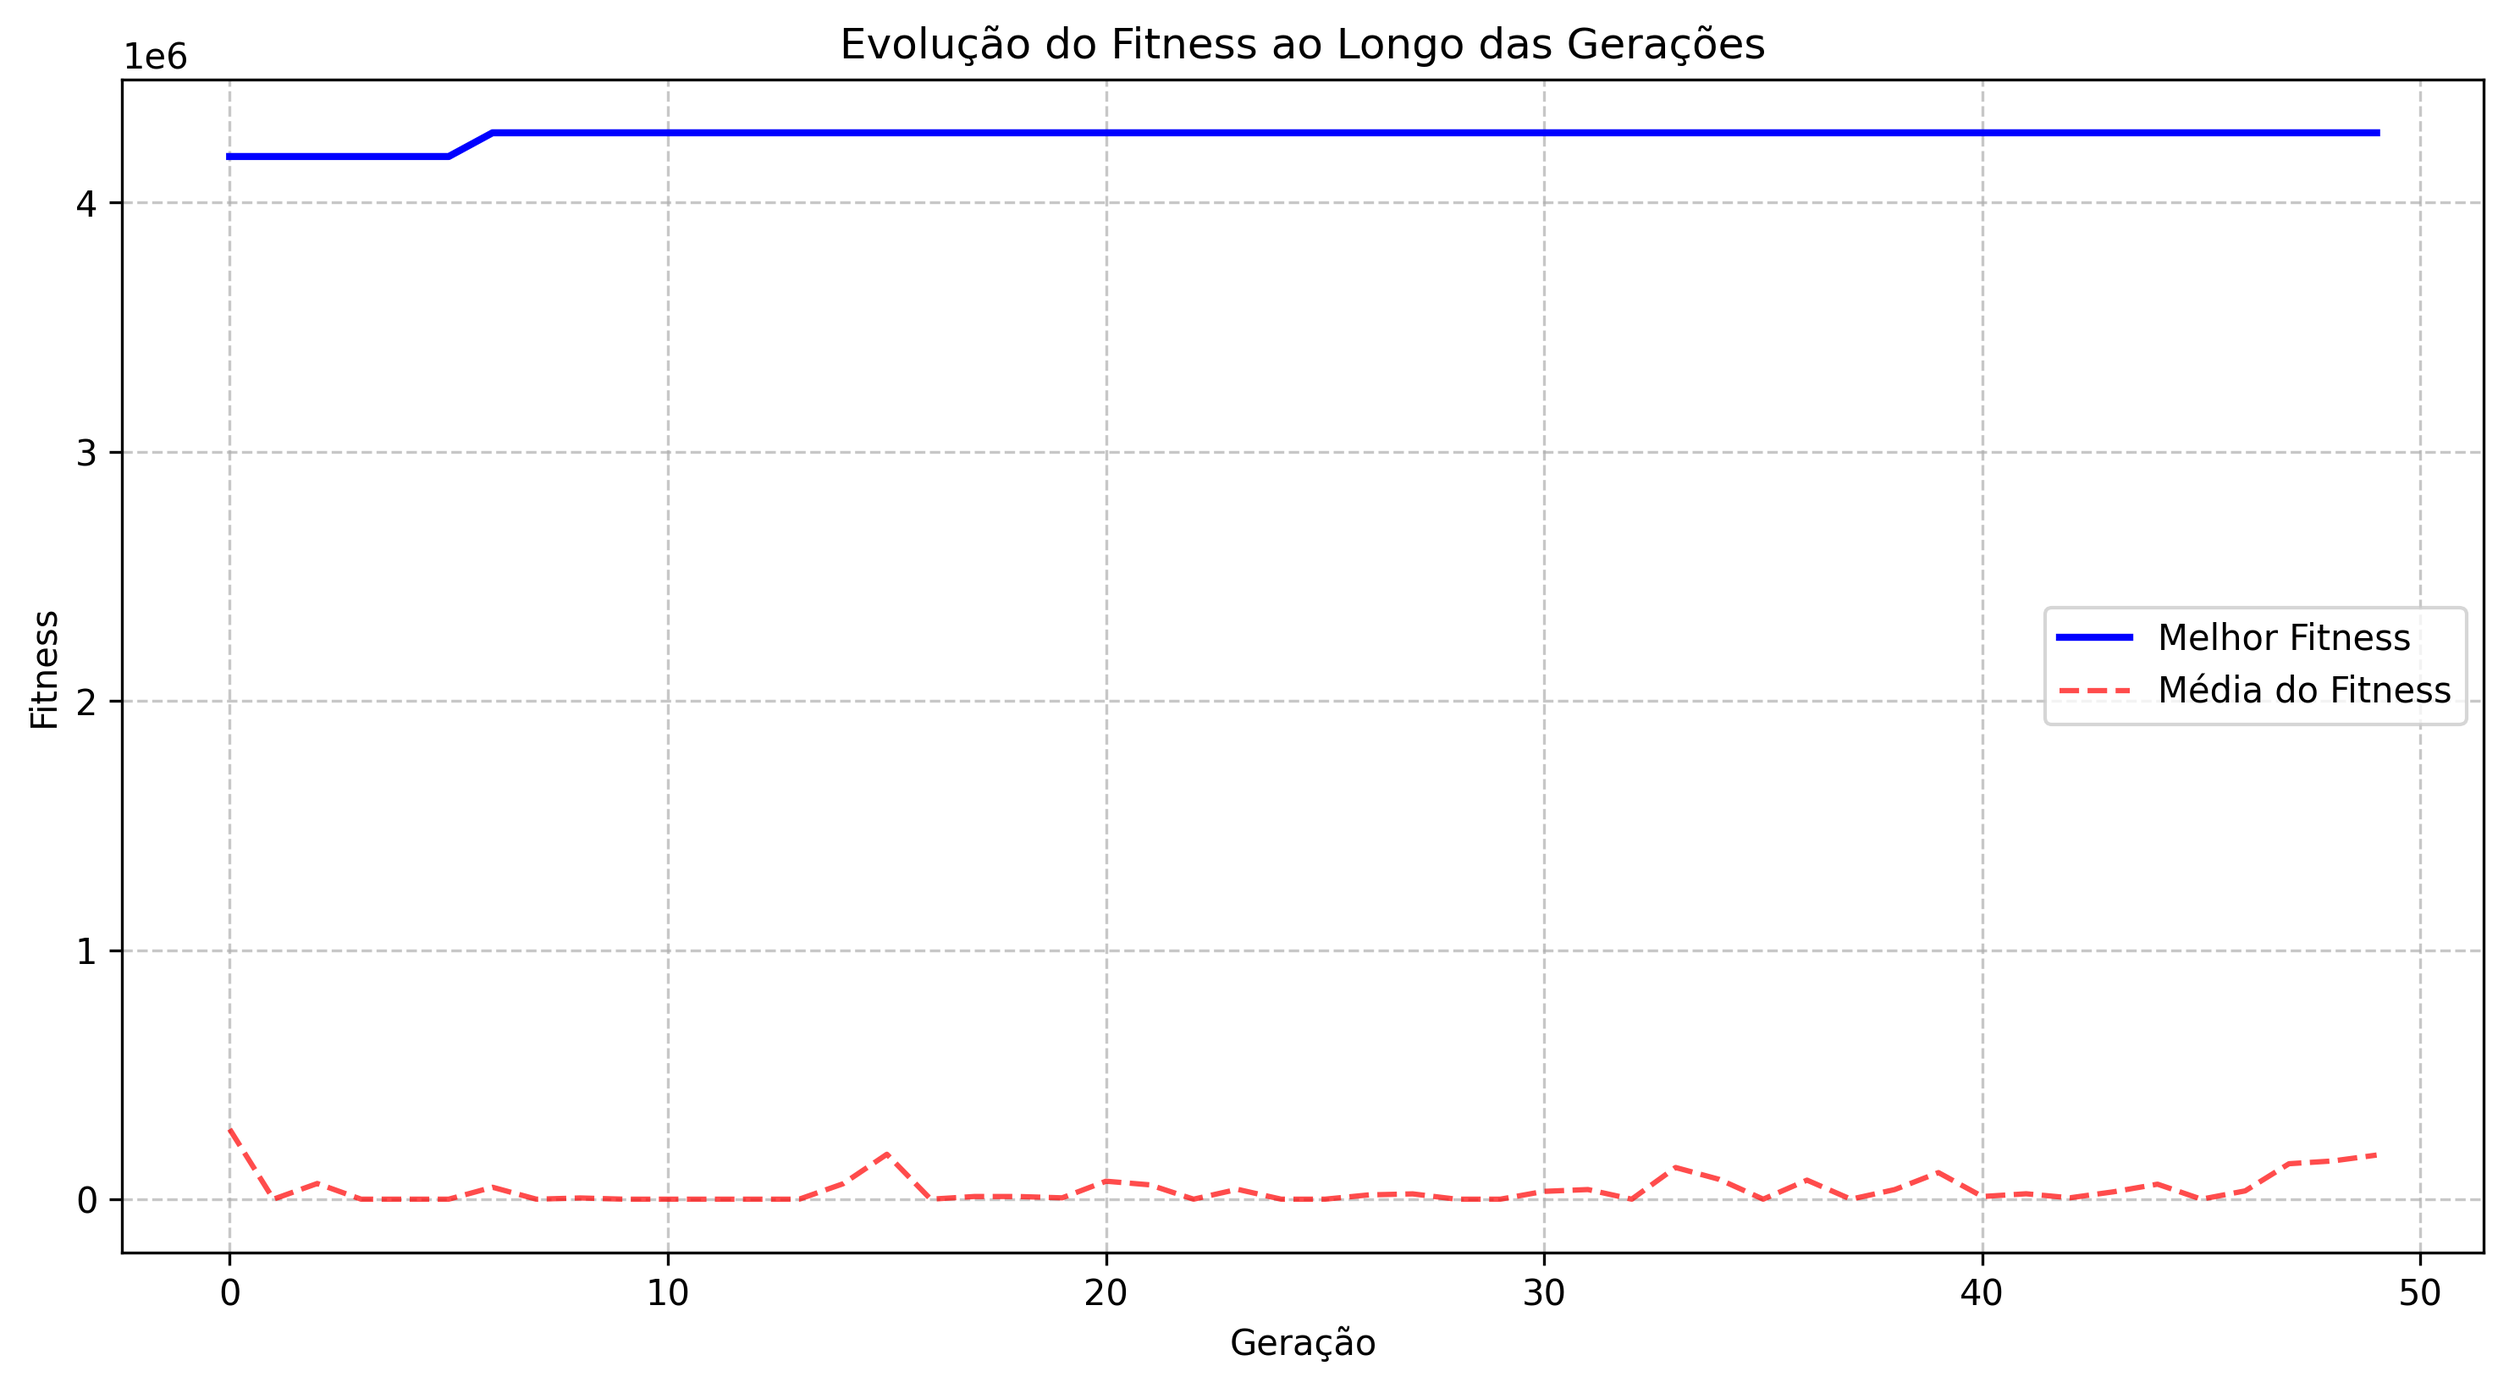
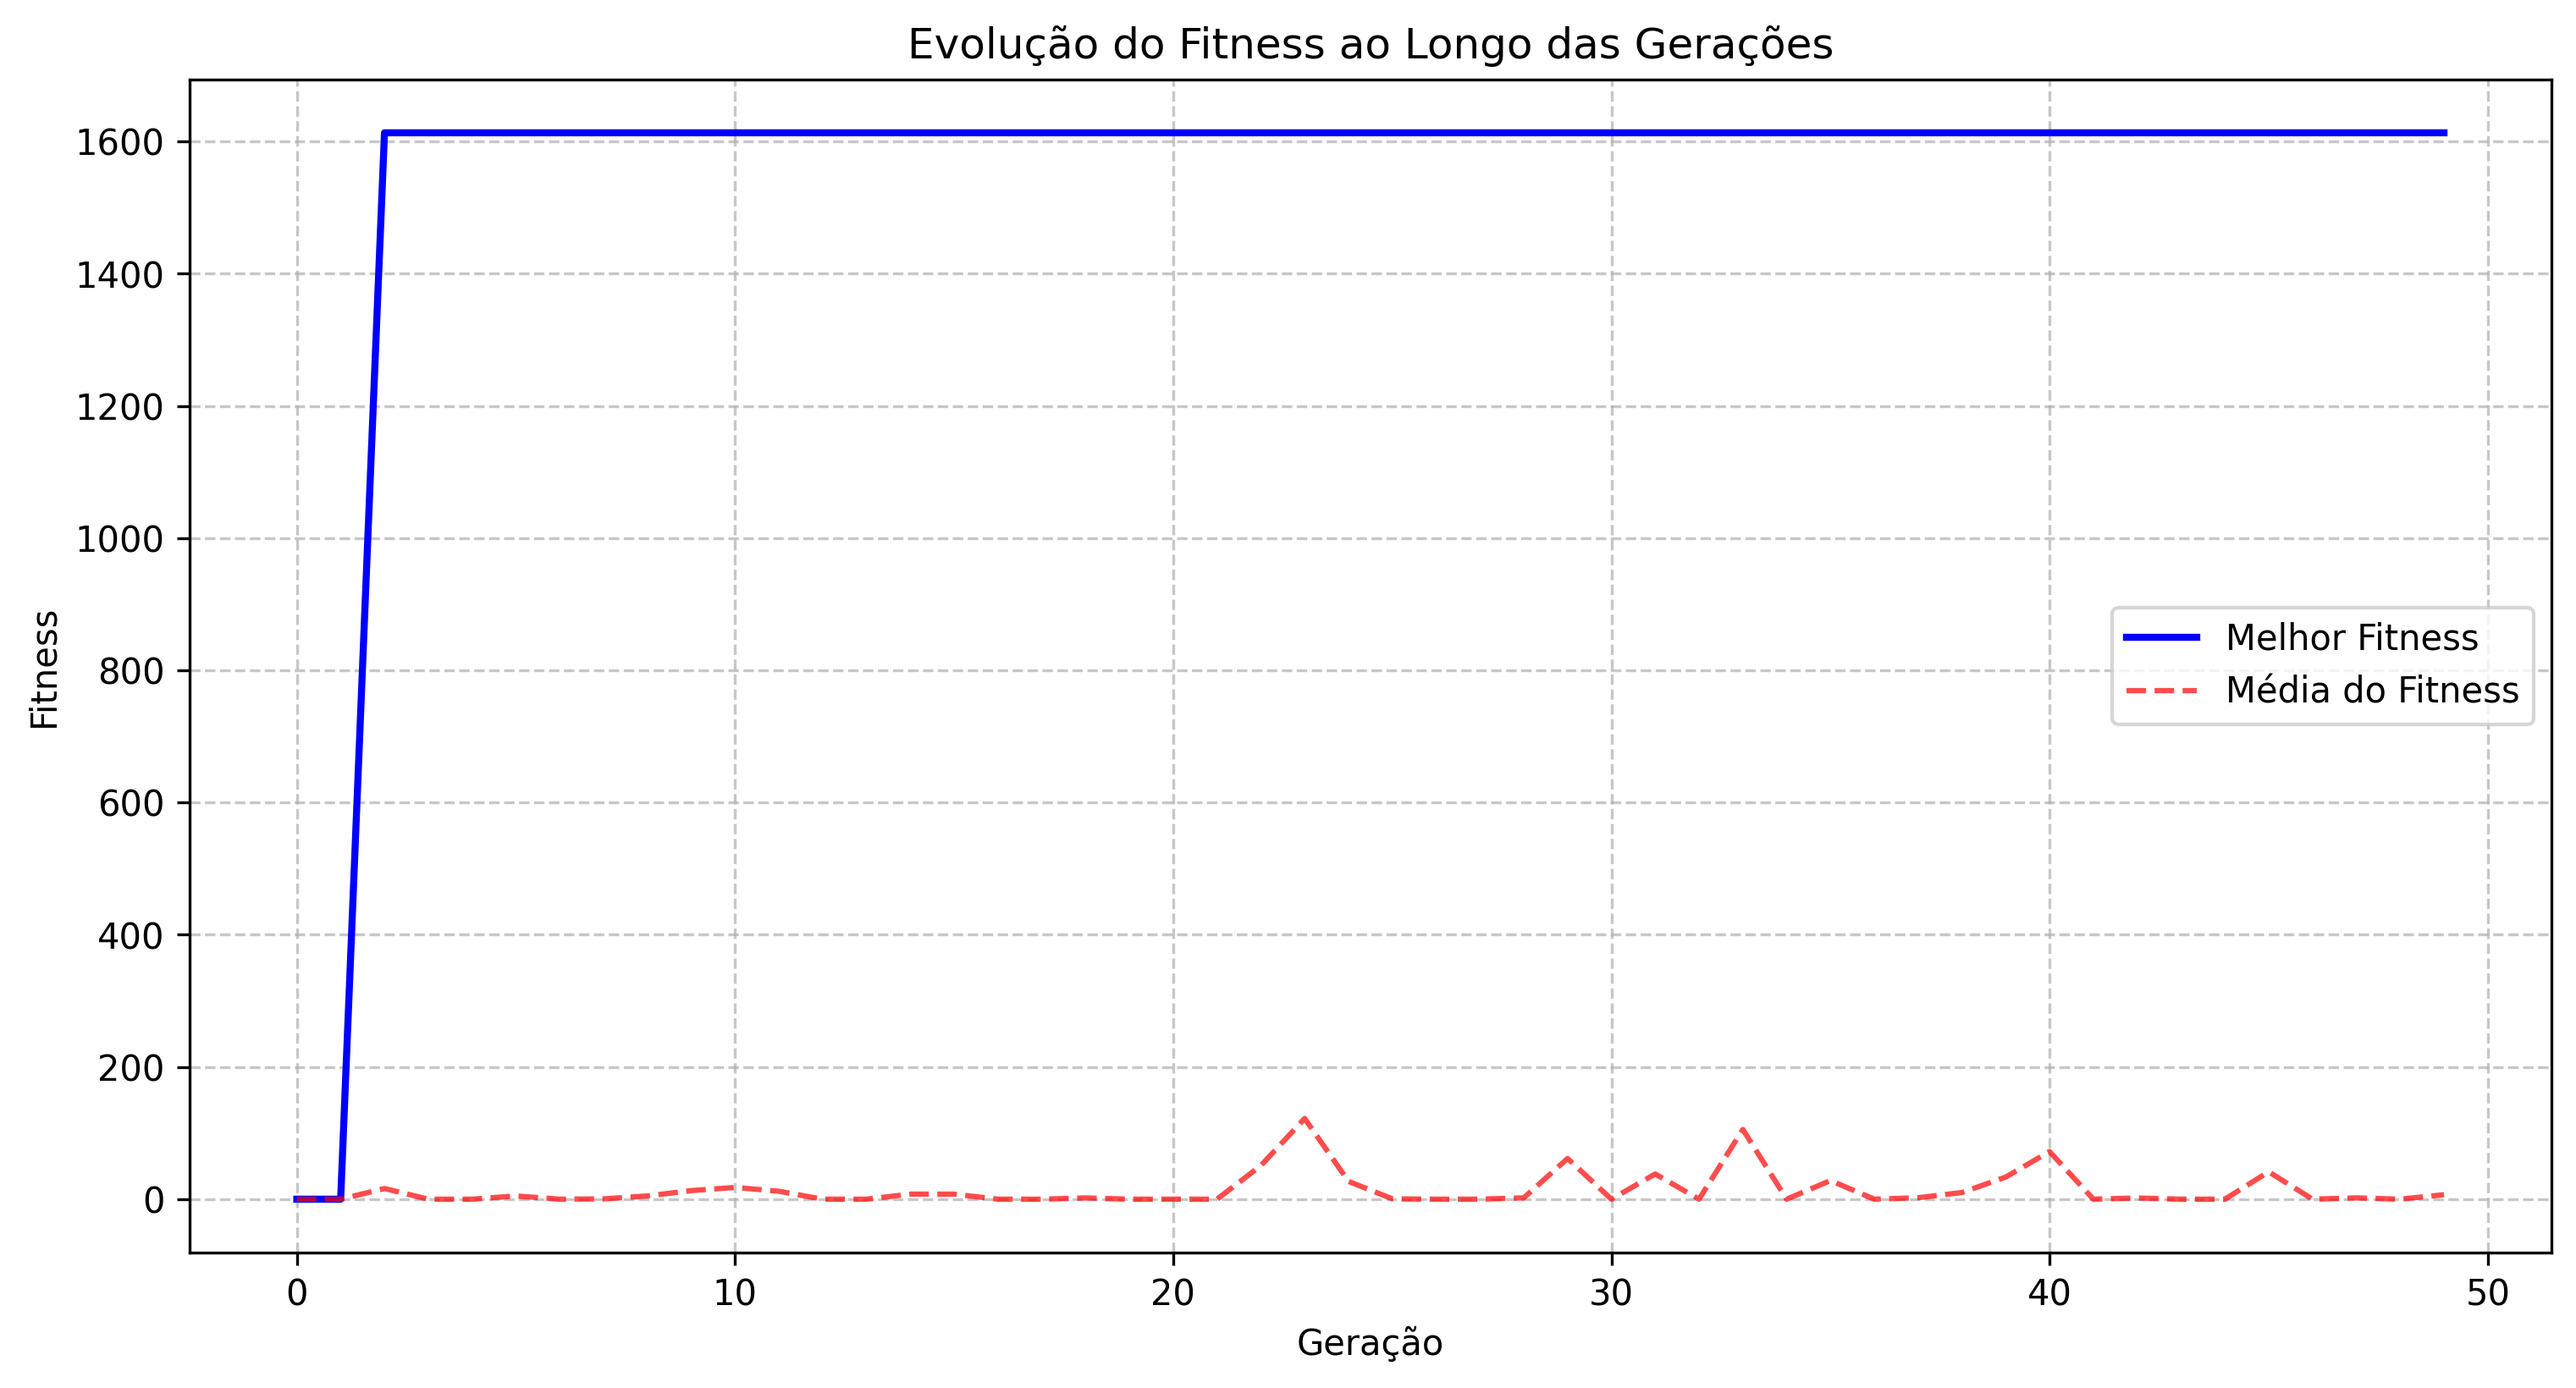
feat: Atualizações na lógica do robô e ajustes nas penalidades e recompensas
- Modificações na árvore de decisão do melhor robô para melhorar a performance
- Alterações na lógica de verificação de meta atingida
- Redução nos valores de penalidades e recompensas para balanceamento do algoritmo
- Ajustes na penalidade por tempo parado e na recompensa por distância percorrida

diff --git a/robo_exercicio.py b/robo_exercicio.py
@@ -266,7 +266,7 @@ class Robo:
 		self.recursos_coletados += recursos_coletados
 
 		# Verificar se atingiu a meta
-		if not self.meta_atingida and ambiente.verificar_atingir_meta(self.x, self.y, self.raio) and recursos_coletados == len(ambiente.recursos):
+		if not self.meta_atingida and ambiente.verificar_atingir_meta(self.x, self.y, self.raio):
 			self.meta_atingida = True
 			# Recuperar energia ao atingir a meta
 			self.energia = min(100, self.energia + 50)
@@ -1004,32 +1004,32 @@ class ProgramacaoGenetica:
 				recursos_coletados = robo.recursos_coletados
 
 				# Bônus base por recursos (progressivo)
-				bonus_recursos = recursos_coletados * 500 # Bônus base por recurso
+				bonus_recursos = recursos_coletados * 100 # Reduzido de 500 para 100
 				# Bônus extra por progresso na coleta
 				if recursos_coletados > 0:
-					bonus_recursos += recursos_coletados * 300 * (recursos_coletados / recursos_ambiente)
+					bonus_recursos += recursos_coletados * 50 * (recursos_coletados / recursos_ambiente) # Reduzido de 300 para 50
 
 				# Penalidade por ir para a meta sem coletar todos os recursos
 				penalidade_meta_prematura = 0
 				if robo.meta_atingida and recursos_coletados < recursos_ambiente:
-					penalidade_meta_prematura = 5000 # Penalidade alta por meta prematura
+					penalidade_meta_prematura = 1000 # Reduzido de 5000 para 1000
 					# Penalidade adicional baseada na quantidade de recursos faltando
 					recursos_faltando = recursos_ambiente - recursos_coletados
-					penalidade_meta_prematura += recursos_faltando * 1000
+					penalidade_meta_prematura += recursos_faltando * 200 # Reduzido de 1000 para 200
 
 				# Penalidades básicas
-				penalidade_colisoes = robo.colisoes * 500  # Penalidade por colisão
-				penalidade_energia = (100 - robo.energia) * 2  # Penalidade por baixa energia
+				penalidade_colisoes = robo.colisoes * 100  # Reduzido de 500 para 100
+				penalidade_energia = (100 - robo.energia) * 0.5  # Reduzido de 2 para 0.5
 				
 				# Novas penalidades e recompensas
-				penalidade_tempo_parado = tempo_parado * 50  # Penalidade por ficar parado
-				penalidade_movimento_irregular = abs(robo.velocidade - 2.0) * 100  # Penalidade por velocidade irregular
-				recompensa_distancia = distancia_total * 0.5  # Recompensa por explorar o ambiente
+				penalidade_tempo_parado = tempo_parado * 10  # Reduzido de 50 para 10
+				penalidade_movimento_irregular = abs(robo.velocidade - 2.0) * 20  # Reduzido de 100 para 20
+				recompensa_distancia = distancia_total * 0.1  # Reduzido de 0.5 para 0.1
 				
 				# Penalidade por ficar muito tempo sem coletar recursos
 				penalidade_tempo_sem_coleta = 0
 				if recursos_coletados == 0:
-					penalidade_tempo_sem_coleta = ambiente.tempo * 2
+					penalidade_tempo_sem_coleta = ambiente.tempo * 0.5 # Reduzido de 2 para 0.5
 
 				# Cálculo base do fitness
 				fitness = (
@@ -1045,17 +1045,17 @@ class ProgramacaoGenetica:
 				# Bônus por completar o objetivo corretamente
 				if recursos_coletados == recursos_ambiente:
 					if robo.meta_atingida:
-						fitness += 20000 # Bônus alto por completar tudo
+						fitness += 2000 # Reduzido de 20000 para 2000
 						# Bônus extra por completar rápido
-						fitness += max(0, 5000 - ambiente.tempo * 10)
+						fitness += max(0, 500 - ambiente.tempo * 2) # Reduzido de 5000 para 500
 						# Bônus extra por eficiência energética
-						fitness += robo.energia * 10
+						fitness += robo.energia * 2 # Reduzido de 10 para 2
 
 				# Penalidade por tempo (ajustada para incentivar completar rápido)
-				fitness -= ambiente.tempo * 1.0
+				fitness -= ambiente.tempo * 0.2 # Reduzido de 1.0 para 0.2
     
 				if robo.colisoes == 0:
-					fitness *= 1000;
+					fitness *= 2 # Reduzido de 1000 para 2
 
 				# Garantir que o fitness seja um número válido e não negativo
 				individuo.fitness = max(0, fitness) if np.isfinite(fitness) else 0
